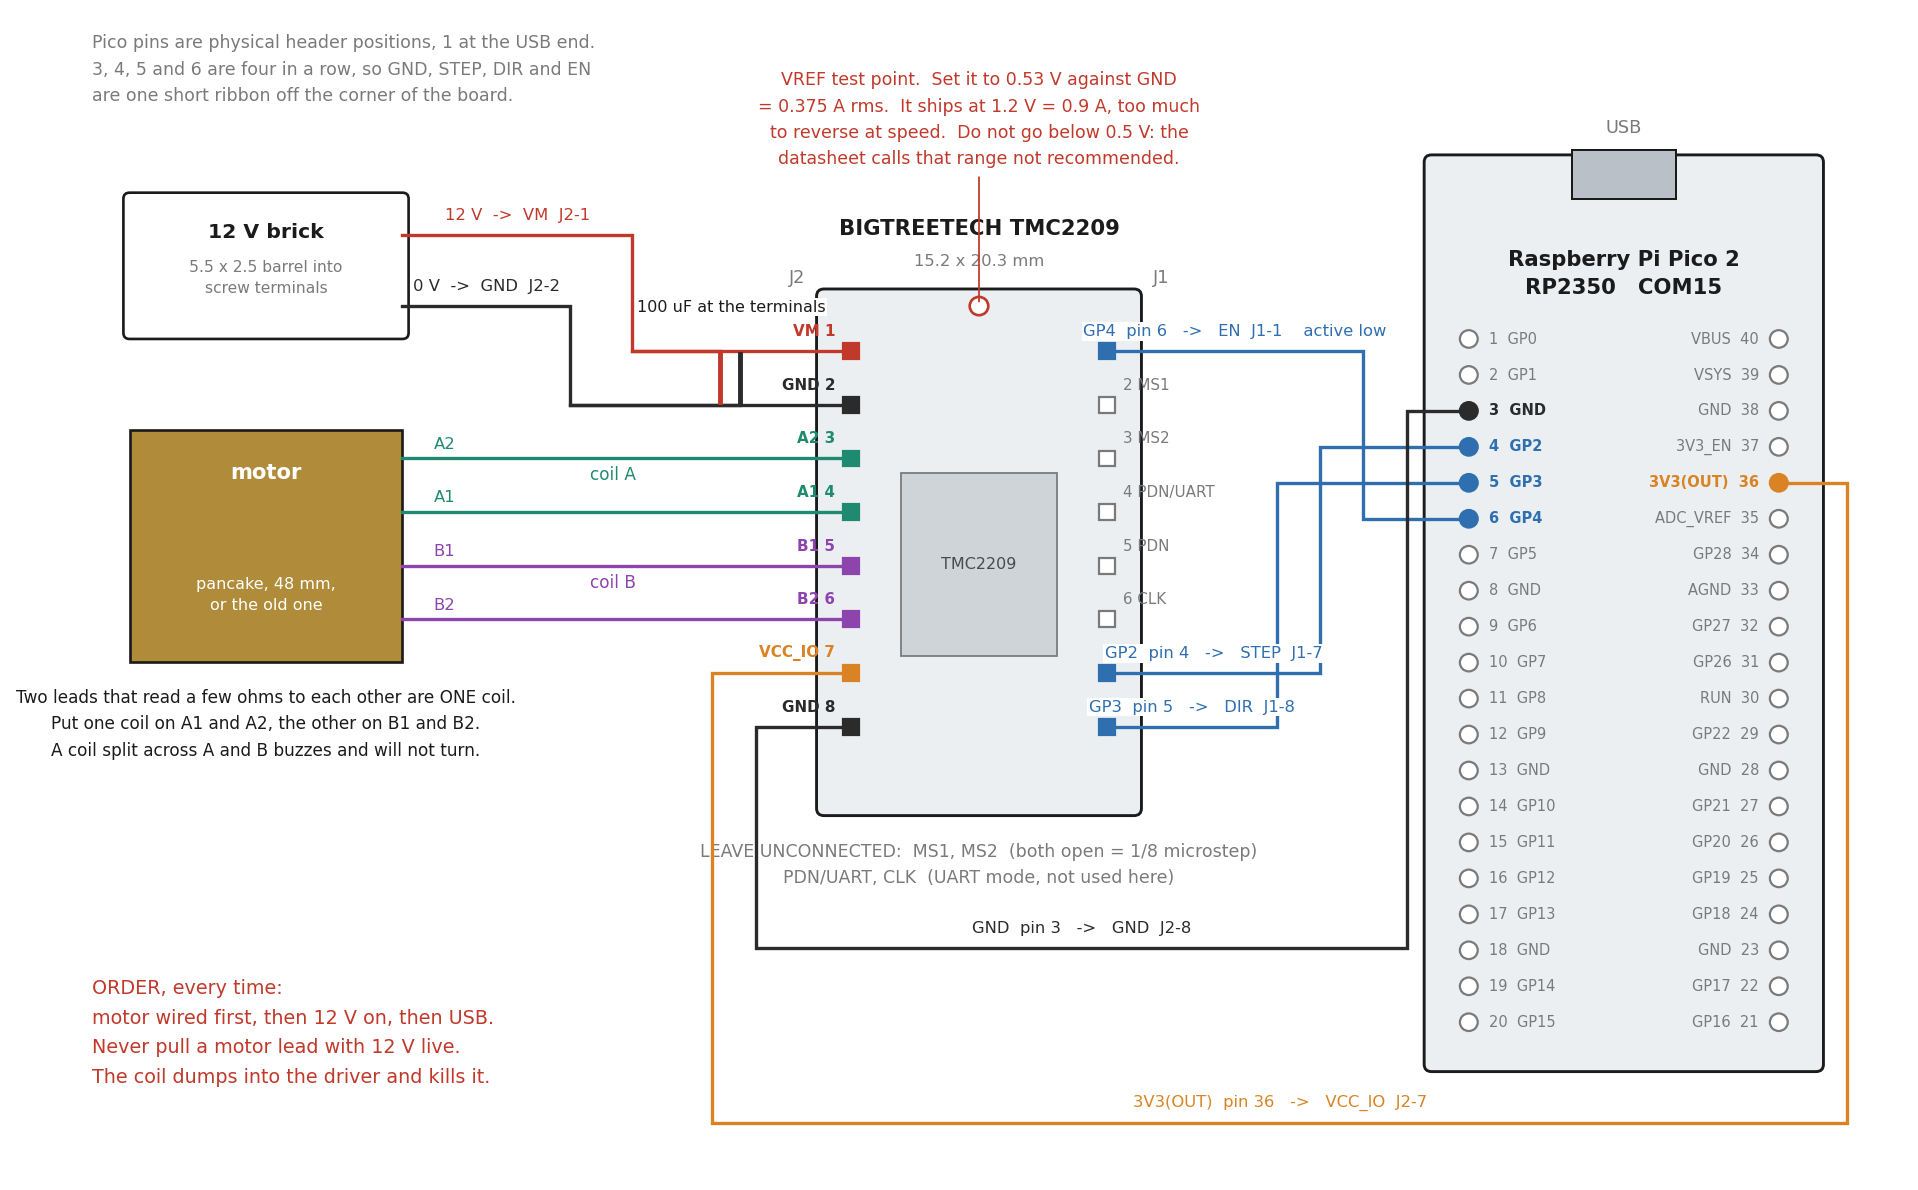
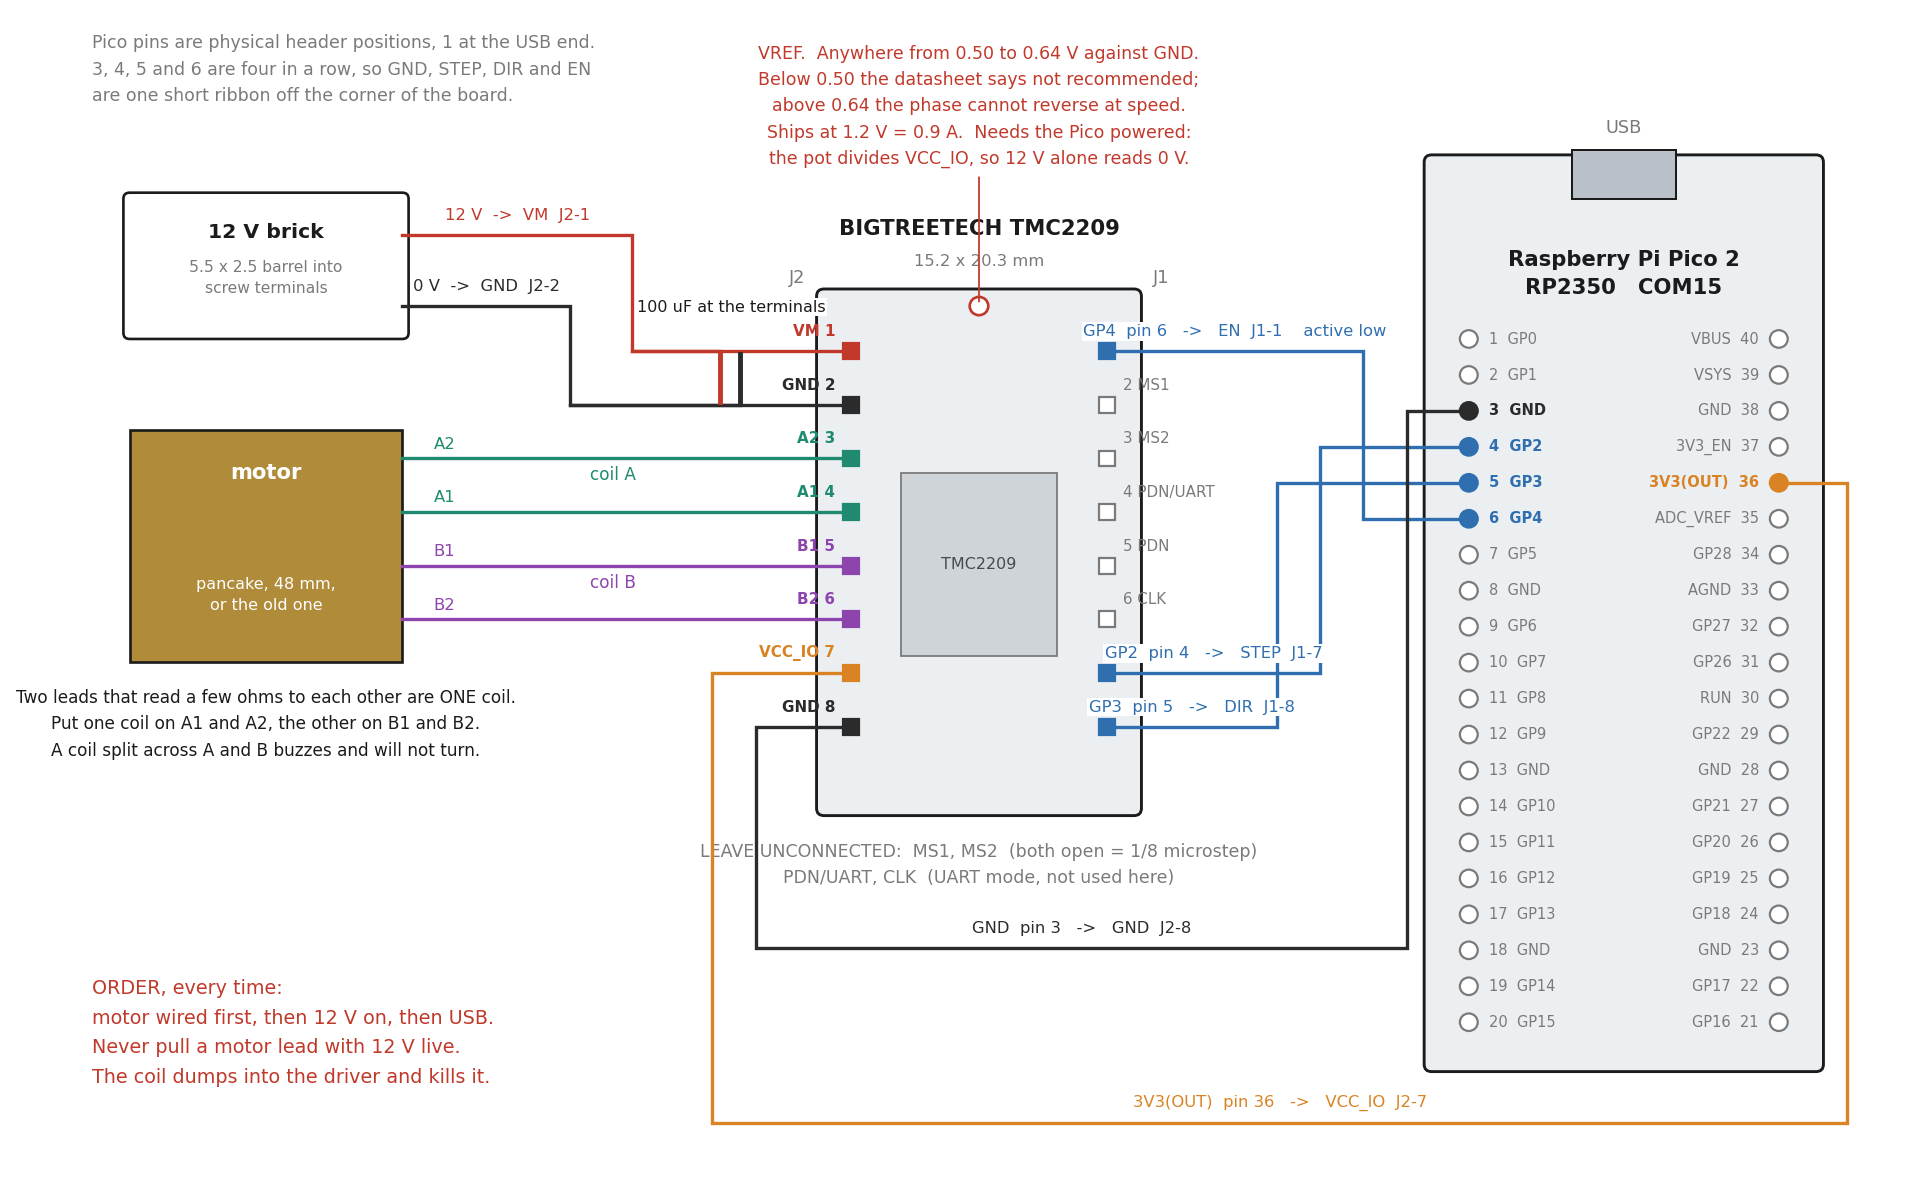
Correct the pot direction and the VREF supply, both from measurement
Two corrections from the bench, both of which overrule what this repo said.

POT DIRECTION. On this BTT TMC2209 V1.3, CW RAISES VREF and CCW LOWERS it.
Evidence: from 0.27 V a small CCW turn gave 0.00 V at a hard end stop, and
from that stop CW ran up to 1.25 V. step_test.py said the opposite,
"backward from an A4988, clockwise REDUCES current", inherited from what is
commonly said about these carriers and never measured here.

It was not a harmless error. A quarter turn CCW was read as having RAISED
the current toward 1.6 A on a 1.0 A motor, and raised a false alarm, when it
had lowered it and was harmless. The lesson is in the files now: do not take
a direction claim from a forum, a datasheet or from this repo. Find the end
stop. A pot reading 0.00 V that will not go lower is at minimum, and minimum
is the harmless end to start from.

VREF NEEDS VCC_IO, NOT JUST VM. With 12 V on and the Pico unplugged the
wiper reads 0 V, and one outer leg of the pot sits at about 3.3 V, so the
divider is fed from the logic supply. This matters because 0.00 V from a
missing logic supply is indistinguishable from a pot wound fully down, and
the obvious response to a reading of zero is to turn it UP. The procedure is
now: motor disconnected, 12 V on, Pico USB on, meter against GND.

SET_I IS NOW DERIVED FROM A MEASUREMENT. VREF landed at 0.556 V on an
MDO3024, 0.1 V/div, 1x probe, steady over five reads, after six iterations
[…]

Changed region(s): [[0.3999, 0.0311, 0.6152, 0.1555]]

diff --git a/flow/step_test.py b/flow/step_test.py
@@ -65,8 +65,24 @@ BTT's manual states the factory setting directly: Vref 1.2 V = 0.9 A.
 
 Do not skip it. At the factory 0.9 A the phase cannot reverse inside the
 2.61 ms a 230 rpm beat allows, and the motor stalls at speed for a reason that
-has nothing to do with the motor. The potentiometer is BACKWARD from an
-A4988: clockwise REDUCES current.
+has nothing to do with the motor.
+
+POT DIRECTION, MEASURED ON THIS BOARD 2026-11-10. On this BTT TMC2209 V1.3,
+CW RAISES VREF and CCW LOWERS it. Evidence: from 0.27 V a small CCW turn gave
+0.00 V at a hard end stop, and from that stop CW ran up to 1.25 V.
+
+An earlier version of this file said the opposite, "backward from an A4988,
+clockwise REDUCES current". That was inherited from what is commonly said
+about these carriers and was never measured here. It is wrong for this board
+and it caused a real false alarm: a quarter turn CCW was read as having
+RAISED the current toward 1.6 A on a 1.0 A motor, when it had lowered it and
+was harmless. Do not take a direction claim from a forum, a datasheet or from
+this file. Find the end stop. A pot that reads 0.00 V and will not go lower
+is at its minimum, and minimum is the harmless end to start from.
+
+The pot is also coarse: roughly 0.1 to 0.2 V per small nudge, and the whole
+journey from the 1.2 V factory setting to the target is 0.67 V. Six
+iterations to land is normal. Meter after every adjustment, never count turns.
 
 0.375 A rather than a rounder number because the setting is pinned from both
 sides. Above about 0.45 A the reversal budget runs out. Below 0.37 A the pot
@@ -91,11 +107,19 @@ coil on A1/A2 and the other on B1/B2. A coil split across A and B buzzes and
 does not turn, which is the single most common bring-up failure.
 
 Order of operations, every time:
-    1. motor disconnected, 12 V on, meter on the VREF pin against GND
-       (VREF is brought out on the board's top edge next to DIAG and INDEX,
-       so there is no need to probe the pot itself)
+    1. motor disconnected, 12 V on, Pico USB on, meter against GND
     2. 12 V off, connect the motor
     3. 12 V on, THEN USB
+
+VREF needs VCC_IO, not just VM. Measured on this board: with 12 V on and the
+Pico unplugged the wiper reads 0 V, and one outer leg of the pot sits at
+about 3.3 V, so the divider is fed from VCC_IO and there is nothing to read
+without it. That matters more than it sounds: 0.00 V from a missing logic
+supply is indistinguishable from a pot wound fully down, and the obvious
+response to a reading of zero is to turn it up.
+
+The TP hole is awkward to hold a probe in. The pot's middle leg is the same
+node and is easier to land on.
 Never unplug the motor while VM is live. The coil dumps its energy into the
 driver and kills it.
 """

diff --git a/flow/pico/drive.py b/flow/pico/drive.py
@@ -33,24 +33,25 @@ open end. The frame will happily drive straight through that point. This
 refuses to.
 
 Power-up order, every time:
-    1. motor DISCONNECTED, 12 V ON, meter on the VREF pin against GND,
-       set it to 0.53 V. VREF is on the board's top edge next to DIAG and
-       INDEX, so there is no need to probe the pot itself.
+    1. motor DISCONNECTED, 12 V on, Pico USB on, meter against GND
     2. 12 V off, connect the motor
     3. 12 V on, THEN USB
 Never unplug the motor while VM is live. The coil dumps into the driver.
 
-VREF is metered with VM ON and the motor off, not with VM off. On a carrier
-that feeds the pot from the driver's own rail there is nothing to read
-without VM, and "0.00 V" then looks like a pot wound all the way down when
-it may be wound all the way up. Motor disconnected is what makes this safe,
-not power removed.
+VREF needs VCC_IO, not just VM. Measured here: with 12 V on and the Pico
+unplugged the wiper reads 0 V, and one outer leg of the pot sits at about
+3.3 V. A reading of 0.00 V from a missing logic supply is indistinguishable
+from a pot wound fully down, and the obvious response to zero is to turn it
+UP. Motor disconnected is what makes this safe, not power removed.
 
-The pot is BACKWARD from an A4988: clockwise REDUCES current. It is also
-coarse. A quarter turn of a 270 degree pot is worth roughly a volt, and the
-whole journey from the 1.2 V factory setting to 0.53 V is 0.67 V, so a
-quarter turn can cross the entire useful range and come out the other side.
-Meter after every adjustment; never count turns.
+Direction, measured on this board: CW raises VREF, CCW lowers it. An earlier
+note here said the opposite, inherited rather than measured, and it caused a
+false alarm. Find the end stop instead of trusting any claim, this one
+included. A pot reading 0.00 V that will not go lower is at minimum, and
+minimum is the harmless end to start from.
+
+Set to 0.556 V on 2026-11-10, which is 0.393 A rms. syringe_drive.py derives
+SET_I from that measurement rather than from the 0.53 V the design asked for.
 """
 import time
 

diff --git a/flow/wiring.py b/flow/wiring.py
@@ -97,10 +97,15 @@ ax.text(DX - 0.15, jtop + 0.56, "J2", fontsize=8, color=GREY, ha="right")
 vref = (DX + DW / 2, DY + DH - 0.08)
 ax.add_patch(Circle(vref, 0.075, facecolor="white", edgecolor=PWR, lw=1.2,
                     zorder=5))
-ax.annotate("VREF test point.  Set it to 0.53 V against GND\n"
-            "= 0.375 A rms.  It ships at 1.2 V = 0.9 A, too much\n"
-            "to reverse at speed.  Do not go below 0.5 V: the\n"
-            "datasheet calls that range not recommended.",
+# A window, not a point. The pot moves 0.1 to 0.2 V per nudge, so asking for
+# 0.53 V exactly is asking for an afternoon. Anything from 0.50 to 0.64 V
+# works: below is the datasheet floor, above is where the phase can no longer
+# reverse inside the beat. Set on 2026-11-10 to 0.556 V = 0.393 A.
+ax.annotate("VREF.  Anywhere from 0.50 to 0.64 V against GND.\n"
+            "Below 0.50 the datasheet says not recommended;\n"
+            "above 0.64 the phase cannot reverse at speed.\n"
+            "Ships at 1.2 V = 0.9 A.  Needs the Pico powered:\n"
+            "the pot divides VCC_IO, so 12 V alone reads 0 V.",
             vref, (DX + DW / 2, DY + DH + 1.05), fontsize=7.8, color=PWR,
             ha="center", va="bottom", linespacing=1.6, zorder=8,
             arrowprops=dict(arrowstyle="-", color=PWR, lw=0.8))

diff --git a/flow/syringe_drive.py b/flow/syringe_drive.py
@@ -62,7 +62,16 @@ DRIVE_V = 12.0
 # recommended" and 0.5 V is 20% of a full scale that this board's 0.11 ohm
 # sense resistors put at 1.77 A rms. So 0.375 A it is: the lowest current the
 # pot can legally ask for, which still leaves a 2.4x reversal margin.
-SET_I = 0.375                        # phase current we actually run, A rms
+# VREF is MEASURED, not chosen. 0.53 V was the target; the pot on this board
+# is coarse enough that it took six iterations to land, and where it landed is
+# 0.556 V on an MDO3024 at 0.1 V/div, 1x probe, steady over five reads
+# (2026-11-10). So the phase current is DERIVED from what the pot actually
+# does, not asserted at the number the design asked for. 0.393 A sits inside
+# the window this setting was pinned to from both sides: above about 0.45 A
+# the phase reversal budget runs out at speed, below 0.37 A the TMC2209
+# datasheet calls VREF "not recommended".
+VREF_SET = 0.556                     # V, MEASURED at the pot wiper
+SET_I = VREF_SET / 2.5 * 1.768       # 0.393 A rms, derived from the above
 VREF_FLOOR = 0.5                     # datasheet: below this is not recommended
 TMC_FULL_SCALE = 1.768               # A rms at VREF 2.5 V with R_sense 0.11
 M3 = 3.4                             # M3 clearance

diff --git a/flow/pico/README.md b/flow/pico/README.md
@@ -39,16 +39,22 @@ The install reads the constants back off the board after importing, so a pass me
 ## 4. Before the motor turns
 
 ```
-1.  motor DISCONNECTED, 12 V ON, meter on VREF against GND, set 0.53 V
+1.  motor DISCONNECTED, 12 V on, Pico USB on, meter against GND, set 0.53 V
 2.  12 V off, connect the motor
 3.  12 V on, THEN USB
 ```
 
-VREF is on the board's top edge next to DIAG and INDEX, so the pot itself never needs probing.
+**VREF needs VCC_IO, not just VM.** Measured on this board: with 12 V on and the Pico unplugged, the wiper reads 0 V, and one outer leg of the pot sits at about 3.3 V. The divider is fed from the logic supply, so there is nothing to read without it. That matters more than it sounds, because 0.00 V from a missing logic supply is indistinguishable from a pot wound fully down, and the obvious response to a reading of zero is to turn it *up*.
 
-Measure it with **VM on and the motor off**, not with VM off. An earlier version of this file said to measure with 12 V off and that was wrong. On a carrier that feeds the pot from the driver's own rail there is nothing to read without VM, and a reading of 0.00 V then looks identical to a pot wound all the way down when it may be wound all the way up. What makes this safe is the motor being disconnected, not the power being removed.
+What makes this safe is the motor being disconnected, not the power being removed. An earlier version of this file said to measure with 12 V off; that was wrong.
 
-**The pot is backward from an A4988: clockwise REDUCES current.** It is also coarse. A quarter turn of a 270° pot is worth roughly a volt, and the whole journey from the 1.2 V factory setting down to 0.53 V is 0.67 V. A quarter turn can therefore cross the entire useful range and come out the far side. Meter after every adjustment and never count turns.
+**Direction, measured on this board: CW raises VREF, CCW lowers it.** An earlier version said the opposite, inherited from what is commonly said about these carriers and never measured here. Do not take a direction claim from a forum, a datasheet, or from this file. Find the end stop: a pot that reads 0.00 V and will not go lower is at minimum, and minimum is the harmless end to start from.
+
+The pot is coarse, roughly 0.1 to 0.2 V per small nudge against a 0.67 V journey from the factory setting. Six iterations to land is normal. Meter after every adjustment and never count turns.
+
+The TP hole is awkward to hold a probe in. The pot's middle leg is the same node and is easier to land on.
+
+As set on 2026-11-10: **0.556 V**, measured on an MDO3024 at 0.1 V/div with a 1× probe, steady over five reads. That is 0.393 A rms, which gives 6.8× the torque the piston needs and a 6.8× phase-reversal margin. `syringe_drive.py` derives `SET_I` from this measured value rather than from the 0.53 V the design asked for.
 
 Never unplug the motor while VM is live. The coil dumps its stored energy into the driver and kills it.
 
